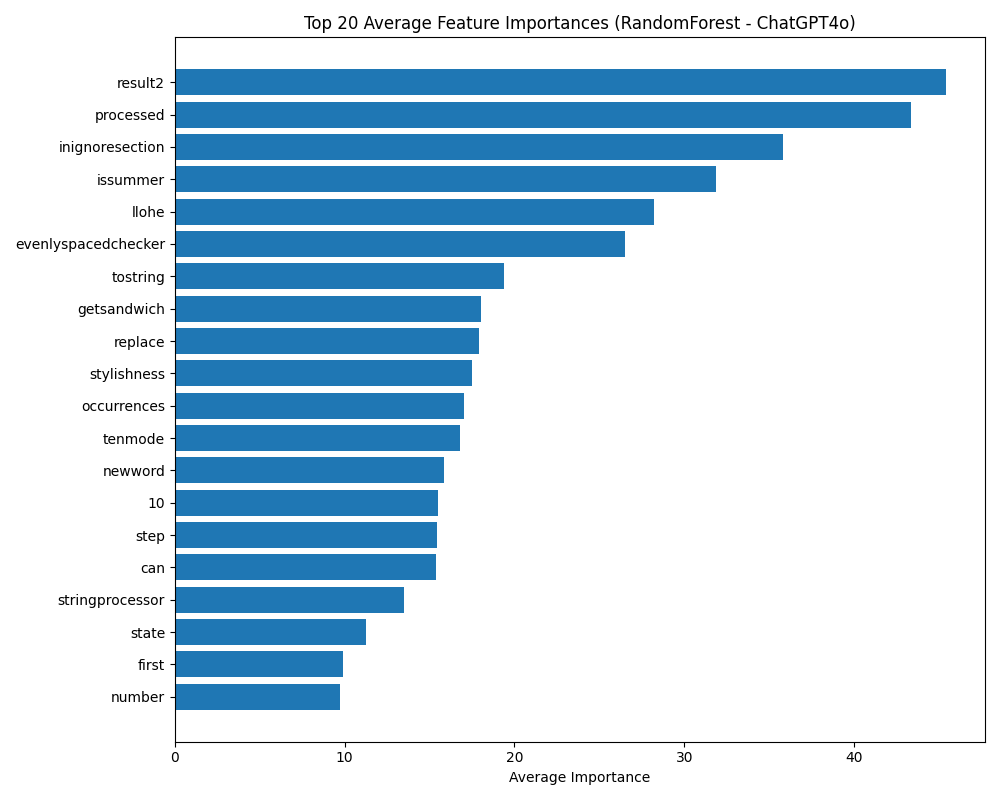
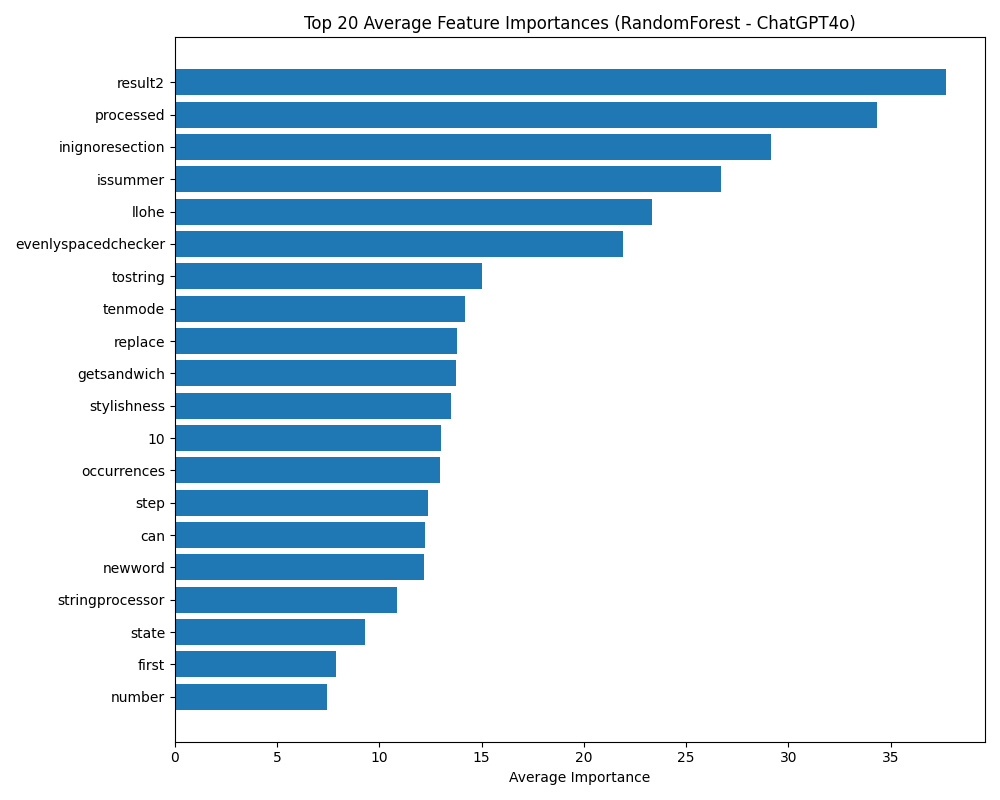
changing vectorizers to use char_wb analyzers and ngrams

diff --git a/ML_models/feature_importance/feature importance.py b/ML_models/feature_importance/feature importance.py
@@ -7,12 +7,12 @@ from sklearn.inspection import permutation_importance
 matplotlib.use('Agg')  # Use a non-interactive backend for matplotlib
 import matplotlib.pyplot as plt
 
-num_models = 10  # Number of models to average over
+num_models = 50  # Number of models to average over
 feature_importances_list = []
 
-# "SVM",
+# "SVM","NN",
 LLMs = ["Qwen", "ChatGPT4o", "ChatGPT35", "DeepSeek"]
-MLs = ["RandomForest",  "LightGBM", "NN", "XGBoost", "AdaBoost"]
+MLs = ["RandomForest",  "LightGBM",  "XGBoost", "AdaBoost"]
 
 
 # Load each saved model and vectorizer

diff --git a/ML_models/SVM.py b/ML_models/SVM.py
@@ -49,7 +49,7 @@ for LLM in LLMs:
     df_full = pd.concat([df1, df2], ignore_index=True)
 
     # Fit vectorizer ONCE HERE:
-    vectorizer = TfidfVectorizer(stop_words='english', max_features=1000)
+    vectorizer = TfidfVectorizer(analyzer='char_wb', ngram_range=(2,6), max_features=1000)
     vectorizer.fit(df_full['Code'])
 
     # Save this fitted vectorizer ONCE (optional, but recommended):

diff --git a/ML_models/GXBoost.py b/ML_models/GXBoost.py
@@ -58,7 +58,7 @@ for LLM in LLMs:
         data = pd.concat([x_data, y_data], ignore_index=True)
 
         # Feature extraction using TF-IDF
-        vectorizer = TfidfVectorizer(max_features=1000)
+        vectorizer = TfidfVectorizer(analyzer='char_wb', ngram_range=(2,6), max_features=1000)
         X = vectorizer.fit_transform(data['Code']).toarray()
         y = data['label']
 

diff --git a/ML_models/LightGBM.py b/ML_models/LightGBM.py
@@ -41,7 +41,7 @@ for LLM in LLMs:
 
         data = pd.concat([data_llm, data_student], ignore_index=True)
 
-        vectorizer = TfidfVectorizer(max_features=1000)
+        vectorizer = TfidfVectorizer(analyzer='char_wb', ngram_range=(2,6), max_features=1000)
         X = vectorizer.fit_transform(data["Code"]).toarray()
         y = data["label"].values
 

diff --git a/ML_models/adaBoost.py b/ML_models/adaBoost.py
@@ -45,7 +45,7 @@ for LLM in LLMs:
 
         data = pd.concat([data_llm, data_student], ignore_index=True)
 
-        vectorizer = TfidfVectorizer(max_features=1000)
+        vectorizer = TfidfVectorizer(analyzer='char_wb', ngram_range=(2,6), max_features=1000)
         X = vectorizer.fit_transform(data["Code"]).toarray()
         y = data["label"].values
 

diff --git a/ML_models/NN.py b/ML_models/NN.py
@@ -53,7 +53,7 @@ for LLM in LLMs:
         df = pd.concat([df1, df2] , ignore_index=True)
 
         # Feature extraction
-        vectorizer = TfidfVectorizer(stop_words='english')
+        vectorizer = TfidfVectorizer(analyzer='char_wb', ngram_range=(2,6), max_features=1000)
         X = vectorizer.fit_transform(df['Code'])
         y = df['Label']
 

diff --git a/ML_models/RandomForest.py b/ML_models/RandomForest.py
@@ -45,7 +45,7 @@ for LLM in LLMs:
 
         data = pd.concat([data_llm, data_student], ignore_index=True)
 
-        vectorizer = TfidfVectorizer(max_features=1000)
+        vectorizer = TfidfVectorizer(analyzer='char_wb', ngram_range=(2,6), max_features=1000)
         X = vectorizer.fit_transform(data["Code"])
         y = data["label"].values
 
